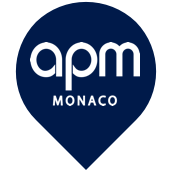
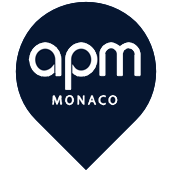
对接数据和微信jssdk

diff --git a/src/components/Index.vue b/src/components/Index.vue
@@ -2,24 +2,25 @@
   <div id="index-page">
     <div class="page-body">
       <div class="page-bg">
-        <img src="../assets/img/apm@2x.png" />
+        <img src="../assets/img/apm2@2x.png" />
       </div>
 
       <div class="page-content">
         <div class="select-p">
           <div class="input-p">
             <img src="../assets/img/btn.png" class="arrow"/>
-            <select v-model="country" @change="changeStore" placeholder="国家">
-              <option v-for="option in options" v-bind:value="option.id">
+            <select v-model="country" @change="changeCountry">
+              <option value='' disabled  style='display:none;'>国家</option>
+              <option v-for="option in countryOptions" :value="option.id">
                 {{ option.name }}
               </option>
             </select>
           </div>
           <div class="input-p">
             <img src="../assets/img/btn.png" class="arrow"/>
-            <select v-model="city" @change="changeStore" placeholder="城市">
+            <select v-model="city" @change="changeCity">
               <option value='' disabled  style='display:none;'>城市</option>
-              <option v-for="option in options" v-bind:value="option.id">
+              <option v-for="option in cityOptions" v-bind:value="option.id">
                 {{ option.name }}
               </option>
             </select>
@@ -35,17 +36,19 @@
             infinite-scroll-disabled="loading"
             infinite-scroll-distance="10">
             <li v-for="item in list">
-              <img src="../assets/img/adres-icon@2x.png" class="address-icon"/>
-              <div class="store-name">
+              <img src="../assets/img/adres-icon@2x.png" class="address-icon" @click="openWxMap(item)"/>
+              <div class="store-name" @click="openWxMap(item)">
                 <span class="store-item-name">{{item.name}}</span>
-                <span  class="store-distance">13.5公里</span>
+                <span  class="store-distance" v-if="item.distance">{{item.distance}}</span>
               </div>
-              <div class="address">
+              <div class="address" @click="openWxMap(item)">
                 {{item.address}}
               </div>
-              <div class="phone">
-                <a :href="'wtai://wp//mc;'+item.phone.replace(/[^0-9]/ig,'')">{{item.phone}}</a>
-              </div>
+              <a :href="'tel://'+item.phone.replace(/[^0-9]/ig,'')">
+                <div class="phone">
+                  {{item.phone}}
+                </div>
+              </a>
             </li>
           </ul>
          <div class="no-more-data" v-show="noMore">加载完成</div>
@@ -57,16 +60,20 @@
 
 <script>
   import { MessageBox} from 'mint-ui';
+  import wx from 'weixin-js-sdk'
 export default {
   name: 'Index',
   data () {
     return {
-      country: '-1',
+      country: '',
       city:'',
-      options: [],
+      countryOptions: [],
+      cityOptions: [],
       loading:true,
       pageNum:1,
       list:[],
+      latitude:'',
+      longitude:'',
       noMore:false
     }
   },
@@ -74,21 +81,27 @@ export default {
 
   },
   mounted(){
-    this.getOption();
+    this.getWxConfig();
+    this.getCountryOption();
     this.loading=false;
   },
   methods:{
-    getOption(){
+    getCountryOption(){
       let _this=this;
-      this.$http.get('/apm-monaco/h5/shop/cityList').then(function(res){
+      this.$http.get('/apm-monaco/h5/shop/countryList').then(function(res){
         if (res.data&&res.data.length>0){
-          _this.options=res.data;
+          _this.countryOptions=res.data;
         }
-        let option={
-          id: "-1",
-          name: "所有店铺"
-        };
-        _this.options.unshift(option);
+      }).catch(function(err){
+        console.log(err)
+      });
+    },
+    getCityOption(){
+      let _this=this;
+      this.$http.get('/apm-monaco/h5/shop/cityList?countryId='+_this.country).then(function(res){
+        if (res.data&&res.data.length>0){
+          _this.cityOptions=res.data;
+        }
       }).catch(function(err){
         console.log(err)
       });
@@ -96,19 +109,22 @@ export default {
     loadMore(){
       this.loading = true;
       let param='';
-      if(this.country=='-1'){
+      if(this.country===''){
         param='pageNum='+this.pageNum
+      }else if(this.city===''){
+        param='countryId='+this.country+'&pageNum='+this.pageNum
       }else {
-        param='cityId='+this.country+'&pageNum='+this.pageNum
+        param='countryId='+this.country+'&cityId='+this.city+'&lat='+this.latitude+'&lng='+this.longitude+'&pageNum='+this.pageNum
       }
       let _this=this;
       this.$http.get('/apm-monaco/h5/shop/shopList?'+param).then(function(res){
         _this.pageNum++;
         if (res.data.list&&res.data.list.length>0){
           let storeList=res.data.list;
-          for(let i=0;i<storeList.length;i++){
+          _this.list=_this.list.concat(storeList);
+          /*for(let i=0;i<storeList.length;i++){
             _this.list.push(storeList[i]);
-          }
+          }*/
         }
         _this.loading =res.data.end?true : false;
         _this.noMore =res.data.end?true : false;
@@ -116,18 +132,123 @@ export default {
         console.log(err)
       });
     },
-    changeStore(){
-      console.log(this.country);
+    changeCountry(){
+      this.pageNum=1;
+      this.list=[];
+      this.city='';
+      this.cityOptions=[];
+      this.loadMore();
+      this.getCityOption();
+    },
+    changeCity(){
       this.pageNum=1;
       this.list=[];
       this.loadMore();
-    }
+    },
+    getWxConfig(){
+      let _this=this;
+      this.$http.get('/apm-monaco/h5/config/authConfig').then(function(res){
+        let data=res;
+        if (res.data){
+          wx.config({
+            debug: false,
+            appId: 'wx38eaa9f2e9b4fb79',
+            timestamp: data.timestamp,
+            nonceStr: data.nonceStr,
+            signature: data.signature,
+            jsApiList: [
+              'checkJsApi',
+              'onMenuShareTimeline',
+              'onMenuShareAppMessage',
+              'onMenuShareQQ',
+              'onMenuShareWeibo',
+              'onMenuShareQZone',
+              'hideMenuItems',
+              'showMenuItems',
+              'hideAllNonBaseMenuItem',
+              'showAllNonBaseMenuItem',
+              'translateVoice',
+              'startRecord',
+              'stopRecord',
+              'onVoiceRecordEnd',
+              'playVoice',
+              'onVoicePlayEnd',
+              'pauseVoice',
+              'stopVoice',
+              'uploadVoice',
+              'downloadVoice',
+              'chooseImage',
+              'previewImage',
+              'uploadImage',
+              'downloadImage',
+              'getNetworkType',
+              'openLocation',
+              'getLocation',
+              'hideOptionMenu',
+              'showOptionMenu',
+              'closeWindow',
+              'scanQRCode',
+              'chooseWXPay',
+              'openProductSpecificView',
+              'addCard',
+              'chooseCard',
+              'openCard'
+            ]
+          });
+          wx.error(function (res) {
+            MessageBox({
+              title: '提示',
+              message: res.errMsg,
+              confirmButtonClass: 'green-confirm-btn'
+            });
+          });
+          wx.ready(function(){
+            wx.getLocation({
+              type: 'gcj02', // 默认为wgs84的gps坐标，如果要返回直接给openLocation用的火星坐标，可传入'gcj02'
+              success: function (res) {
+                _this.latitude = res.latitude; // 纬度，浮点数，范围为90 ~ -90
+                _this.longitude = res.longitude ; // 经度，浮点数，范围为180 ~ -180。
+              },
+              fail:function (res) {
+                MessageBox({
+                  title: '提示',
+                  message: res.errMsg,
+                  confirmButtonClass: 'green-confirm-btn'
+                });
+              },
+              cancel: function (res) {
+                MessageBox({
+                  title: '提示',
+                  message: '您拒绝授权获取地理位置!',
+                  confirmButtonClass: 'green-confirm-btn'
+                });
+              }
+            });
+          });
+        }
+      }).catch(function(err){
+        console.log(err)
+      });
+    },
+    openWxMap(item){
+      wx.openLocation({
+        latitude: item.latitude,
+        longitude: item.longitude,
+        name: item.name,
+        address: item.address,
+        scale: 14,
+        infoUrl: 'http://weixin.qq.com'
+      });
+    },
   }
 }
 </script>
 
 <!-- Add "scoped" attribute to limit CSS to this component only -->
 <style scoped>
+  a{
+    text-decoration: none;
+  }
   #index-page{
     min-height: 100%;
     width: 7.5rem;

diff --git a/config/index.js b/config/index.js
@@ -12,7 +12,7 @@ module.exports = {
     assetsPublicPath: '/',
     proxyTable: {
       '/apm-monaco/': {
-        target: 'https://www.code41.me',
+        target: 'http://demo.code41.me',/*https://www.code41.me*/
         secure: true,
         changeOrigin:true,
         pathRewrite: {
@@ -22,7 +22,7 @@ module.exports = {
     },
 
     // Various Dev Server settings
-    host: 'localhost', // can be overwritten by process.env.HOST
+    host: '192.168.1.107', // can be overwritten by process.env.HOST
     port: 8080, // can be overwritten by process.env.PORT, if port is in use, a free one will be determined
     autoOpenBrowser: false,
     errorOverlay: true,

diff --git a/src/App.vue b/src/App.vue
@@ -13,16 +13,9 @@ export default {
 <style>
   html,body{
     width: 100%;
-    height: 100%;
+    min-height: 100%;
     padding: 0;
     margin: 0;
-  }
-  body{
-    position: fixed;
-    top:0;
-    bottom: 0;
-    left: 0;
-    right: 0;
   }
 #app {
   font-family: 'Avenir', Helvetica, Arial, sans-serif;

diff --git a/config/dev.env.js b/config/dev.env.js
@@ -4,5 +4,5 @@ const prodEnv = require('./prod.env')
 
 module.exports = merge(prodEnv, {
   NODE_ENV: '"development"',
-  BASE_API: '"https://www.code41.me"',
+  BASE_API: '"http://demo.code41.me"',
 })

diff --git a/config/prod.env.js b/config/prod.env.js
@@ -1,5 +1,5 @@
 'use strict'
 module.exports = {
   NODE_ENV: '"production"',
-  BASE_API: '"https://www.code41.me"',
+  BASE_API: '"http://demo.code41.me"',
 }
